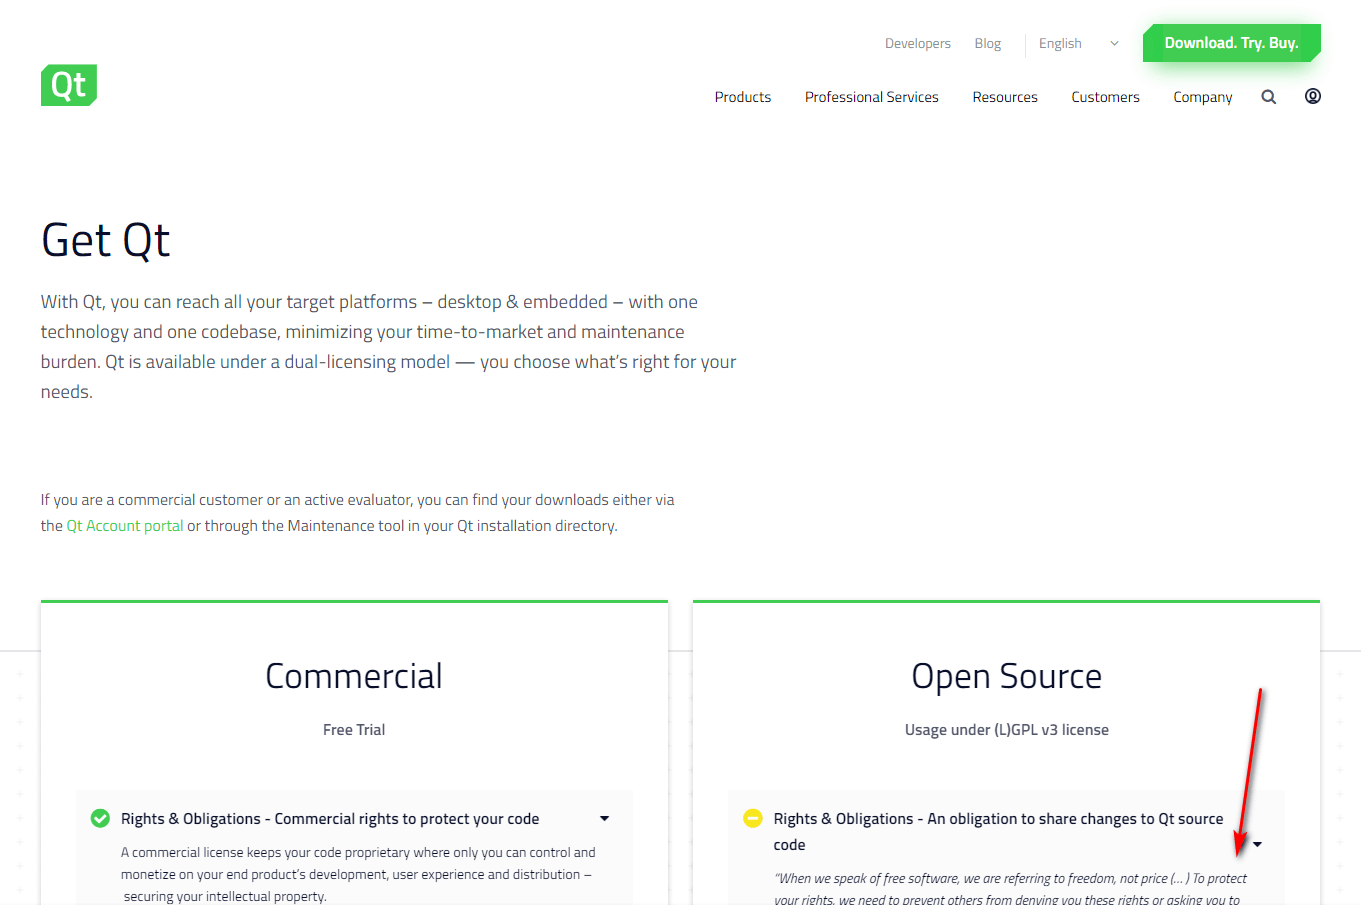
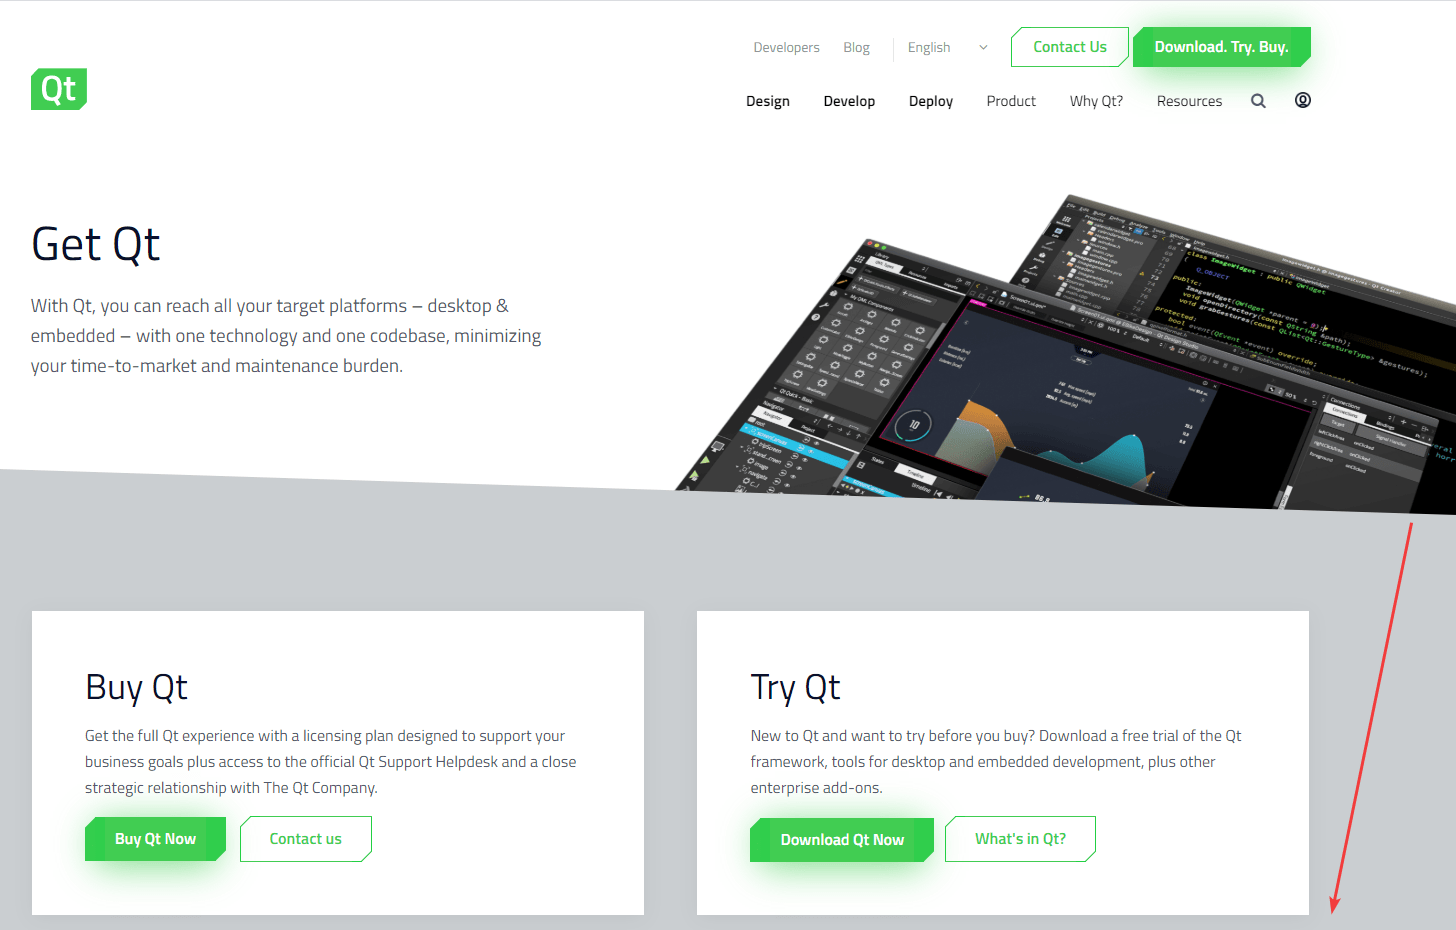
Update screenshots of downloading installer

diff --git a/2018-08-19-install-qt-mingw/2018-08-19-install-qt-mingw.md b/2018-08-19-install-qt-mingw/2018-08-19-install-qt-mingw.md
@@ -26,13 +26,15 @@ related-id: start-qt
 
 ![Страница скачивания Qt](img/download_02.png)
 
-Нам рекомендуют скачать online установщик. Раньше я ставил через offline установщик, но для установки версий MinGW, Visual Studio, Android приходилось устанавливать через несколько инсталляторов, и обновляются такие сборки реже. Так что скачиваем online установщик через кнопку `Download`:
+Нам рекомендуют скачать online установщик. Раньше я ставил через offline установщик, но для установки версий MinGW, Visual Studio, Android приходилось устанавливать через несколько инсталляторов, и обновляются такие сборки реже. Так что скачиваем online установщик через кнопку `Download`, ссылка на который находится в самом низу страницы (на 2020-02-09):
 
 ![Скачивание online установщика](img/download_03.png)
 
+![Скачивание online установщика (второе окно)](img/download_04.png)
+
 Если же вам нужен всё-таки offline установщик, то спуститесь в самый низ и увидите ссылку на них:
 
-![Скачивание offline установщика](img/download_04.png)
+![Скачивание offline установщика](img/download_05.png)
 
 ## Установка
 

diff --git a/2018-08-19-install-qt-advanced/2018-08-19-install-qt-advanced.md b/2018-08-19-install-qt-advanced/2018-08-19-install-qt-advanced.md
@@ -85,13 +85,15 @@ update: 2019-07-13
 
 ![Страница скачивания Qt](img/download_02.png)
 
-Нам рекомендуют скачать online установщик. Раньше я ставил через offline установщик, но для установки версий MinGW, Visual Studio, Android приходилось устанавливать через несколько инсталляторов, и обновляются такие сборки реже. Так что скачиваем online установщик через кнопку `Download`:
+Нам рекомендуют скачать online установщик. Раньше я ставил через offline установщик, но для установки версий MinGW, Visual Studio, Android приходилось устанавливать через несколько инсталляторов, и обновляются такие сборки реже. Так что скачиваем online установщик через кнопку `Download`, ссылка на который находится в самом низу страницы (на 2020-02-09):
 
 ![Скачивание online установщика](img/download_03.png)
 
+![Скачивание online установщика (второе окно)](img/download_04.png)
+
 Если же вам нужен всё-таки offline установщик, то спуститесь в самый низ и увидите ссылку на них:
 
-![Скачивание offline установщика](img/download_04.png)
+![Скачивание offline установщика](img/download_05.png)
 
 ## Установка
 
